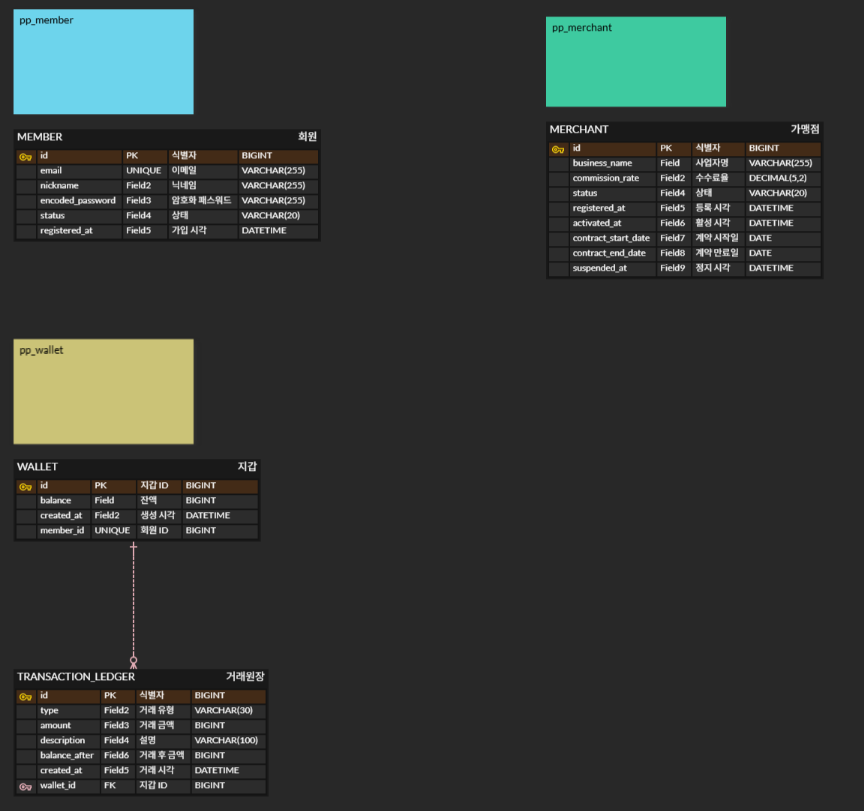
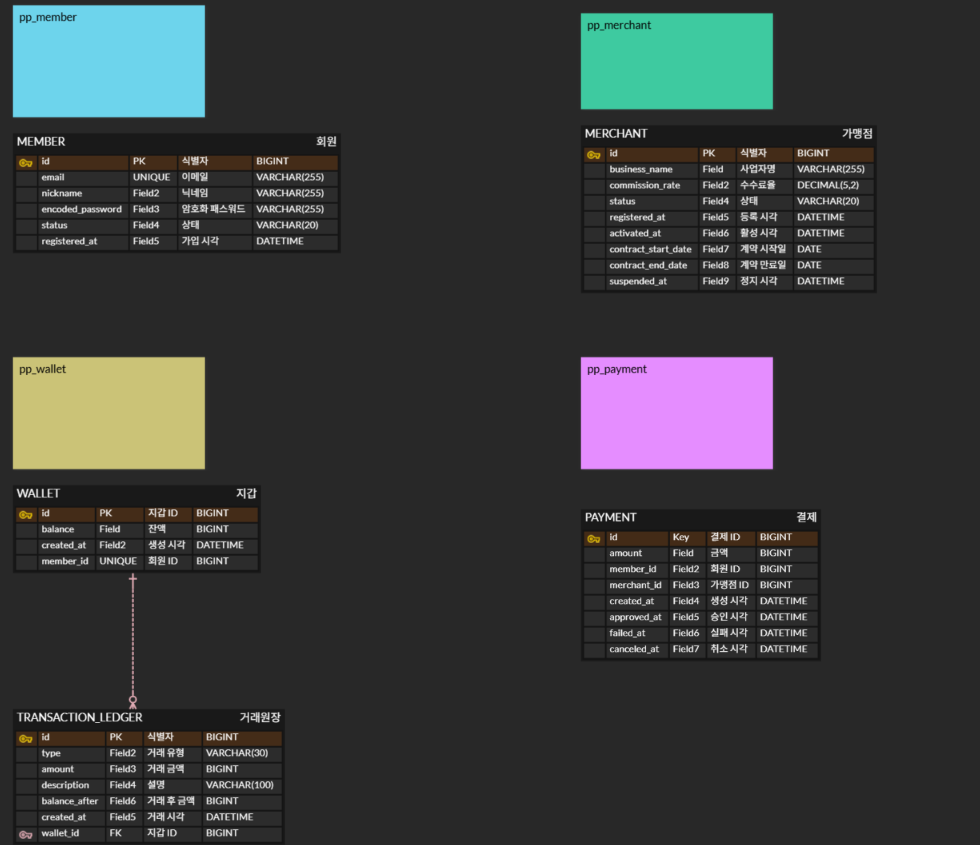
[feature_payment] : payment 도메인모델 문서 및 ERD 작성

diff --git a/도메인모델.md b/도메인모델.md
@@ -53,7 +53,6 @@ _Entity_
 #### 규칙
 - 회원 가입 시 즉시 활성상태가 된다.
 - 활성상태에서 탈퇴가 가능하다.
-  - 지갑에 잔액이 남아있으면 탈퇴 불가능하다.
 - 비밀번호는 해시를 만들어서 저장한다.
 - 상태는 아래와 같이 전이 가능하다.
   - `ACTIVE` > `DEACTIVATED` , `SUSPENDED`
@@ -104,8 +103,6 @@ _Entity_
 - 관리자의 승인 후 활성 상태가 된다.
 - 활성 상태 외에는 결제를 수신할 수 없다.
 - 가맹점 및 플랫폼은 계약을 중도 해지 할 수 없다.
-  - 만료일이 지나면 만료 처리 된다.
-    - 계약 만료는 매일 00시 배치에 의해 자동으로 처리된다.
 - 상태는 아래와 같이 전이 가능하다.
   - `PENDING` > `ACTIVE`
   - `ACTIVE` > `SUSPENDED` , `EXPIRED`
@@ -137,9 +134,9 @@ _Entity_
 - `deduct()` : 차감
 - `refund()` : 환불
 #### 규칙
-- 회원 한명당 지갑 하나만을 가진다.
-  - 회원 생성 시점에 지갑이 자동 생성된다.
 - 지갑에 잔액이 충분해야 결제가 가능하다.
+- 충전, 차감 , 환불 금액은 반드시 양수여야 한다.
+- 잔액은 0 미만이 될 수 없다.
 
 ### 거래(WalletTransaction)
 _Entity_
@@ -150,13 +147,12 @@ _Entity_
 - `description` : 설명
 - `balanceAfter` : 거래 후 금액
 - `createdAt` : 거래 시각
-- `walletId` : 지갑 ID
+- `wallet` : `Wallet`
 #### 행위
 - `static create()` : 거래 내역 생성
 #### 규칙
-- 지갑으로 들어오고 나가는 모든 내역은 거래 원장에 반드시 기록되어야 한다.
-  - 충전/차감/환불 시 거래원장이 함께 생성된다.
-- 거래 원장은 한번 기록되면 수정하거나 삭제할 수 없다. 
+- 거래 원장은 한번 기록되면 수정하거나 삭제할 수 없다.
+- 거래 후 잔액 스냅샷을 기록한다.
 
 ### 거래 유형(TransactionType)
 _Enum_
@@ -164,4 +160,46 @@ _Enum_
 - `CHARGE`: 충전
 - `DEDUCT`: 차감
 - `REFUND`: 환불
+### InSufficientBalanceException
+_Exception_
+
+### WalletAlreadyExistException
+_Exception_
+
+### WalletNotFoundException
+_Exception_
 ___
+### 결제 (Payment)
+_Entity_
+
+#### 속성
+- `id` : `Long`
+- `amount` : 금액
+- `status` : `PaymentStatus`
+- `memberId` : 회원 ID
+- `merchantId` : 가맹점 ID
+- `createdAt` : 생성 시각
+- `approvedAt` : 승인 시각
+- `failedAt` : 실패 시각
+- `canceledAt` : 취소 시각
+#### 행위
+- `static request()` : 결제 요청
+- `approve()` : 결제 승인
+- `fail()` : 결제 실패
+- `cancel()` : 결제 취소 
+#### 규칙
+- 결제 금액은 반드시 양수여야 한다.
+- 상태는 아래와 같이 전이 가능하다.
+  - `REQUESTED` > `APPROVED` , `FAILED`
+  - `APPROVED` > `CANCELLED`
+
+### 결제 상태 (PaymentStatus)
+_Enum_
+#### 상수
+- `REQUESTED`: 요청
+- `APPROVED`: 승인
+- `FAILED` : 실패
+- `CANCELED`: 취소
+
+### PaymentLockException
+_Exception_
